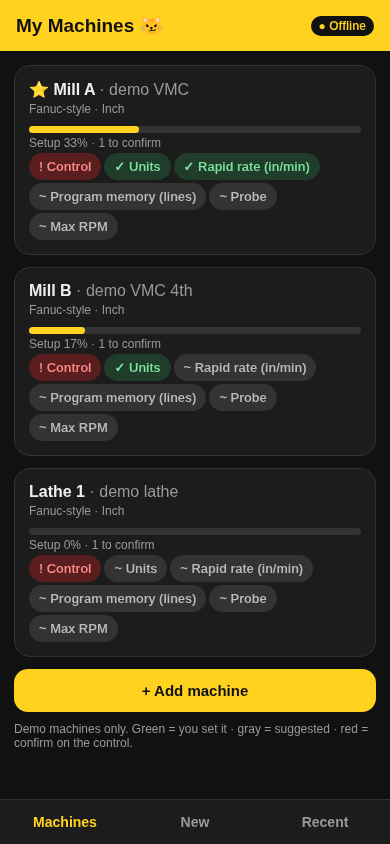
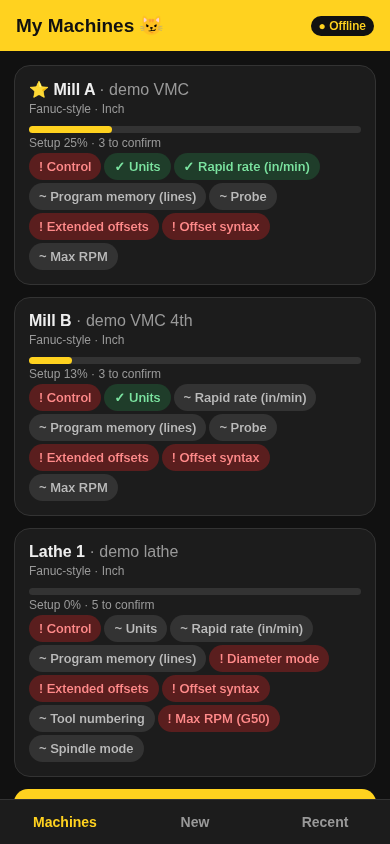
Lathe jobs, tool in sim + scrub/line highlight, required positional values, extended work offsets, edits feed checker/3D

Changed region(s): [[0.0308, 0.2464, 0.9846, 0.955], [0.2769, 0.1232, 0.3385, 0.1848], [0.2462, 0.154, 0.2769, 0.1848]]

diff --git a/index.html b/index.html
@@ -15,7 +15,7 @@ textarea,input,select{width:100%;background:#0a0a0a;color:#eee;border:1px solid 
 .ok{background:#1f3d2a;color:#7be3a0;border-radius:12px;padding:10px;font-size:13px;font-weight:700;margin:10px 0;cursor:pointer}
 .ok.bad{background:#5a1e1e;color:#ff8a8a}
 .code{background:#0a0a0a;border:1px solid #333;border-radius:12px;font:11.5px/1.55 ui-monospace,Menlo,monospace;max-height:340px;overflow:auto}
-.ln{white-space:pre;padding:0 8px;border-left:3px solid #ffd21f;outline:none}.ln.u{border-left-color:#ff5fa2;background:#2a1020}
+.ln{white-space:pre;padding:0 8px;border-left:3px solid #ffd21f;outline:none}.ln.cur{background:#3a3200!important}.ln.u{border-left-color:#ff5fa2;background:#2a1020}
 .tabs{position:fixed;bottom:0;left:0;right:0;display:flex;background:#1c1c1c;border-top:1px solid #333}
 .tabs button{flex:1;background:none;border:0;color:#999;padding:14px;font-size:14px;font-weight:700}.tabs button.on{color:#ffd21f}
 .foot{font-size:12px;color:#ff8a8a;margin-top:8px}canvas{width:100%;height:300px;background:#0a0a0a;border-radius:12px;touch-action:none;display:block}
@@ -28,9 +28,12 @@ textarea,input,select{width:100%;background:#0a0a0a;color:#eee;border:1px solid 
 <script>
 const $=s=>document.querySelector(s),V=$('#v');
 const PRESETS={'Vertical mills':['Generic 3-axis VMC','Generic VMC w/ 4th axis','Small toolroom mill'],'Horizontal mills':['Generic HMC w/ pallet','Generic HMC 4-axis'],'Lathes':['Generic 2-axis lathe','Lathe w/ live tooling','Lathe w/ sub-spindle']};
-const SETS=[['Control','Fanuc-style'],['Units','Inch'],['Rapid rate (in/min)','400'],['Program memory (lines)','8000'],['Probe','none'],['Max RPM','8000']];
-function mk(name,type,user){return{id:Date.now()+Math.random(),name,type,s:SETS.map(([k,v],i)=>({k,v,st:i==0?'confirm':(user||[]).includes(k)?'user':'suggested'}))}}
+const SETS=[['Control','Fanuc-style'],['Units','Inch'],['Rapid rate (in/min)','400'],['Program memory (lines)','8000'],['Probe','none'],['Extended offsets','none',1],['Offset syntax','G54.1 Pn',1],['Max RPM','8000']];
+const LSETS=[['Control','Fanuc-style'],['Units','Inch'],['Rapid rate (in/min)','400'],['Program memory (lines)','8000'],['Diameter mode','Diameter',1],['Extended offsets','none',1],['Offset syntax','G54.1 Pn',1],['Tool numbering','T0101'],['Max RPM (G50)','3000',1],['Spindle mode','G96 CSS']];
+const isLT=t=>/lathe/i.test(t);
+function mk(name,type,user){return{id:Date.now()+Math.random(),name,type,s:(isLT(type)?LSETS:SETS).map(([k,v],i)=>({k,v,st:i==0||(isLT(type)?LSETS:SETS)[i][2]?'confirm':(user||[]).includes(k)?'user':'suggested'}))}}
 let S=JSON.parse(localStorage.getItem('mc')||'null')||{m:[mk('Mill A','demo VMC',['Units','Rapid rate (in/min)']),mk('Mill B','demo VMC 4th',['Units']),mk('Lathe 1','demo lathe',[])],jobs:[],cur:0};
+S.m.forEach(m=>{if((isLT(m.type)&&!m.s.find(x=>x.k=='Diameter mode'))||!m.s.find(x=>x.k=='Extended offsets'))m.s=mk(m.name,m.type).s});
 const save=()=>localStorage.setItem('mc',JSON.stringify(S));
 function tab(t){document.querySelectorAll('.tabs button').forEach(b=>b.classList.toggle('on',b.dataset.t==t));({machines,new:nw,recent})[t]();scrollTo(0,0)}
 document.querySelectorAll('.tabs button').forEach(b=>b.onclick=()=>tab(b.dataset.t));
@@ -42,7 +45,7 @@ V.innerHTML=S.m.map((m,i)=>`<div class="card" onclick="edit(${i})"><div class="t
 function addM(){$('#ttl').textContent='Presets';V.innerHTML=Object.entries(PRESETS).map(([g,l])=>`<div class="card"><div class="t">${g}</div>${l.map(n=>`<button class="chip gr" onclick="pick('${n}','${g}')">${n}</button>`).join('')}</div>`).join('')+'<div class="s">Not affiliated with any machine maker. Generic presets only.</div>'}
 function pick(n,g){S.m.push(mk(n,g.replace(/s$/,'').toLowerCase()));save();edit(S.m.length-1)}
 function edit(i){const m=S.m[i];$('#ttl').textContent=m.name;
-V.innerHTML=`<div class="card"><input id="mn" value="${m.name}"><div class="bar"><i style="width:${pct(m)}%"></i></div><div class="s">Setup ${pct(m)}%</div>${m.s.map((x,j)=>`<div class="set"><span><span class="chip ${cls[x.st]}">${ic[x.st]}</span> ${x.k}</span><input style="width:45%" data-j="${j}" value="${x.v}"></div>`).join('')}<div class="s">Editing a value marks it green (you set it). Control stays red until you confirm it on the machine.</div></div><button class="btn" onclick="cur(${i})">Use this machine</button><button class="btn o" onclick="tab('machines')">Back</button>`;
+V.innerHTML=`<div class="card"><input id="mn" value="${m.name}"><div class="bar"><i style="width:${pct(m)}%"></i></div><div class="s">Setup ${pct(m)}%</div>${m.s.map((x,j)=>`<div class="set"><span><span class="chip ${cls[x.st]}" onclick="S.m[${i}].s[${j}].st='user';save();edit(${i})">${ic[x.st]}</span> ${x.k}</span><input style="width:45%" data-j="${j}" value="${x.v}"></div>`).join('')}<div class="s">Editing a value marks it green (you set it). Red items: check them on the control, then tap the red chip to confirm.</div></div><button class="btn" onclick="cur(${i})">Use this machine</button><button class="btn o" onclick="tab('machines')">Back</button>`;
 $('#mn').onchange=e=>{m.name=e.target.value;save()};V.querySelectorAll('input[data-j]').forEach(el=>el.onchange=()=>{const x=m.s[el.dataset.j];x.v=el.value;x.st='user';save();edit(i)})}
 function cur(i){S.cur=i;save();tab('new')}
 // ---------- parser
@@ -61,39 +64,25 @@ function parse(t){t=t.toLowerCase().replace(/\b(one|two|three|four|five|six|seve
   const c=num(/([\d.]+)\s*(?:"|in)?\s*(?:cutter|face mill|mill)/,t);G('Cutter',c??2,c==null);const st=num(/stepover\s*([\d.]+)/,t);G('Stepover %',st??70,st==null);}
  if(op=='face'){const z=num(/(?:take|remove|depth)\s*(?:off\s*)?([\d.]+)/,t);G('Depth',z??0.02,z==null)}else G('Depth',d);
  if(op!='face'){const pk=/peck|g83/.test(t);G('Cycle',pk?'Peck G83':'Drill G81',!/peck|drill|g8[13]/.test(t));if(pk){const q=num(/peck\s*(?:of\s*)?([\d.]+)/,t);G('Peck Q',q??0.05,q==null)}}
- const f=num(/(?:feed|f)\s*([\d.]+)/,t);G('Feed',f??(op=='face'?30:8),f==null);const r=num(/(?:rpm|s)\s*(\d{3,5})/,t)??num(/(\d{3,5})\s*rpm/,t);G('RPM',r??(op=='face'?3000:2500),r==null);
+ if(op!='face'){const dd=num(/([\d.]+)\s*(?:"|in)?\s*drill/,t);G('Drill Ø',dd??0.25,dd==null)}
+ const f=num(/\b(?:feed|f)\s*([\d.]+)/,t);G('Feed',f??(op=='face'?30:8),f==null);const r=num(/(?:rpm|s)\s*(\d{3,5})/,t)??num(/(\d{3,5})\s*rpm/,t);G('RPM',r??(op=='face'?3000:2500),r==null);
  const tl=num(/\bt(?:ool)?\s*(\d+)/,t);G('Tool',tl??1,tl==null);G('Clear Z',0.1,true);
  return{op,p,text:t}}
-const OPN={bolt:'Bolt circle',grid:'Hole grid',face:'Face mill'};
+const OPN={bolt:'Bolt circle',grid:'Hole grid',face:'Face mill',lturn:'OD turn',lface:'Lathe face',lgroove:'OD groove',ldrill:'Center drill'};
 function nw(){$('#ttl').textContent='New job · '+(S.m[S.cur]||{name:'?'}).name;
-V.innerHTML=`<textarea id="q" rows="3" placeholder="e.g. 6 hole bolt circle 3.0 dia, start 15, 0.5 deep, peck">${J?J.text:''}</textarea><div class="row" style="margin-top:6px"><button class="chip gr" onclick="ex('6 hole bolt circle 3.0 dia start 15 0.5 deep peck 0.1')">Bolt circle</button><button class="chip gr" onclick="ex('3 x 4 grid 0.75 spacing 0.4 deep drill')">Grid</button><button class="chip gr" onclick="ex('face 4 x 3 with 2 cutter take off 0.02')">Face</button></div><button class="btn" onclick="go()">Make my macro</button><div id="out"></div>`}
+V.innerHTML=`<textarea id="q" rows="3" placeholder="${isL()?'e.g. G54 T1 turn 2.0 bar to 1.5 dia 3 long z0 0':'e.g. G54 T2 6 hole bolt circle 3.0 dia center x0 y0 z0 0 start 15 0.5 deep peck'}">${J?J.text:''}</textarea><div class="row" style="margin-top:6px">${isL()?`<button class="chip gr" onclick="ex('G54 T1 turn 2.0 bar to 1.5 dia 3 long z0 0 chamfer 0.03')">OD turn</button><button class="chip gr" onclick="ex('G54 T1 face 0.05 off 2.0 bar z0 0')">Face</button><button class="chip gr" onclick="ex('G54 T3 groove 0.25 wide 0.1 deep at z-1.0 2.0 bar insert 0.125 z0 0')">Groove</button><button class="chip gr" onclick="ex('G54 T5 center drill 0.5 deep peck 0.1 z0 0')">Drill</button>`:`<button class="chip gr" onclick="ex('G54 T2 6 hole bolt circle 3.0 dia center x0 y0 z0 0 start 15 0.5 deep peck 0.1')">Bolt circle</button><button class="chip gr" onclick="ex('G54 T2 3 x 4 grid 0.75 spacing start x0 y0 z0 0 0.4 deep drill')">Grid</button><button class="chip gr" onclick="ex('G54 T1 face 4 x 3 with 2 cutter take off 0.06 stepdown 0.02 stepover 70 z0 0')">Face</button>`}</div><button class="btn" onclick="go()">Make my macro</button><div id="out"></div>`}
 function ex(s){$('#q').value=s;go()}
-function go(){const j=parse($('#q').value);if(!j){$('#out').innerHTML='<div class="ok bad">Try “bolt circle”, “grid”, or “face mill”.</div>';return}J={...j,date:Date.now(),edits:{}};show()}
-function show(){const miss=Object.entries(J.p).filter(([k,x])=>x.v==null);
- let h=`<div class="card"><div class="t">${OPN[J.op]}</div>${Object.entries(J.p).map(([k,x])=>`<button class="chip ${x.v==null?'r':x.g?'gr':'y'}" onclick="ed('${k}')">${k}: ${x.v??'?'}</button>`).join('')}<div class="s">Yellow = from your words · gray = suggested, tap to change.</div></div>`;
- if(miss.length){h+=`<div class="card"><div class="t">Need ${miss.length} more</div>${miss.map(([k])=>`<div class="set">${k}<input style="width:45%" inputmode="decimal" data-k="${k}"></div>`).join('')}<button class="btn" onclick="fill()">Continue</button></div>`;$('#out').innerHTML=h;return}
- const g=gen(J);J.code=g.code;J.moves=g.moves;
- const ch=checks(J,g);J.edited=J.edited||{};
- h+=`<div class="ok ${ch.every(c=>c[1])?'':'bad'}" onclick="$('#cl').classList.toggle('hid')">✓ ${ch.filter(c=>c[1]).length} of ${ch.length} checks passed ▾</div><div id="cl" class="hid card">${ch.map(c=>`<div class="s">${c[1]?'✅':'❌'} ${c[0]}</div>`).join('')}</div>
- <div class="code" id="ed">${J.code.map((l,i)=>`<div class="ln ${J.edits[i]!=null?'u':''}" contenteditable data-i="${i}">${esc(J.edits[i]??l)}</div>`).join('')}</div>
- <canvas id="cv"></canvas><div class="row" style="margin-top:6px"><button class="chip gr" onclick="vw('top')">Top</button><button class="chip gr" onclick="vw('front')">Front</button><button class="chip gr" onclick="vw('iso')">Iso</button><button class="chip gr" onclick="vw('fit')">Fit</button><button class="chip y" onclick="play()">▶ Play</button><button class="chip gr" onclick="step()">Step</button></div>
- <div class="card" style="margin-top:8px" id="info"></div>
- <label><input type="checkbox" id="vf" style="width:auto"> I'll verify on the control</label><button class="btn" id="cp" disabled onclick="copy()">Copy program</button><button class="btn o" onclick="saveJob()">Save to Recent</button>
- <div class="foot">⚠ Dry-run and single-block on the machine before production. Generic Fanuc-style Macro B. Not for any specific machine.</div>`;
- $('#out').innerHTML=h;$('#vf').onchange=e=>$('#cp').disabled=!e.target.checked;
- V.querySelectorAll('.ln').forEach(el=>el.oninput=()=>{J.edits[el.dataset.i]=el.textContent;el.classList.add('u')});
- view.n=J.moves.length;initCv();const m=S.m[S.cur],rr=m?+m.s[2].v:400;
- $('#info').innerHTML=`<div class="t">Cycle time about ${fmt(time(J.moves,rr))}</div><div class="s">${J.moves.length} moves · rapid ${rr} in/min <span class="chip ${m&&m.s[2].st=='user'?'g':'gr'}">${m&&m.s[2].st=='user'?'set':'suggested'}</span></div><div class="s">Estimate only. Don't quote a job off it.</div>`+(g.out?`<div class="s" style="color:#ff8a8a">⚠ ${g.out} move(s) outside stock (red)</div>`:'')}
+function go(){const j=req((isL()?parseL:parse)($('#q').value));if(!j){$('#out').innerHTML=`<div class="ok bad">${isL()?'Try “turn”, “face”, “groove”, or “center drill”.':'Try “bolt circle”, “grid”, or “face mill”.'}</div>`;return}J={...j,date:Date.now(),edits:{}};show()}
 function esc(s){return s.replace(/&/g,'&amp;').replace(/</g,'&lt;')}
-function ed(k){const x=J.p[k],v=prompt(k,x.v??'');if(v==null)return;x.v=isNaN(+v)?v:+v;x.g=false;show()}
-function fill(){V.querySelectorAll('input[data-k]').forEach(el=>{if(el.value!=='')J.p[el.dataset.k]={v:+el.value,g:false}});show()}
+function ed(k){const x=J.p[k],v=prompt(k=='Work offset'?'Work offset — this machine allows: G54–G59'+(extN()?`, ${offLbl('P1')}…${offLbl(offOpts().at(-1))}`:''):k,k=='Work offset'?offLbl(x.v||''):x.v??'');if(v==null)return;x.v=k=='Work offset'?normOff(v):isNaN(+v)?v:+v;x.g=false;show()}
+function fill(){V.querySelectorAll('[data-k]').forEach(el=>{if(el.value!=='')J.p[el.dataset.k]={v:el.dataset.k=='Work offset'?normOff(el.value):isNaN(+el.value)?el.value.toUpperCase():+el.value,g:false}});show()}
 // ---------- generator: Macro B main + subprogram, and simulated moves
 function f4(n){return(+n).toFixed(4).replace(/0+$/,'').replace(/\.$/,'.0')}
-function gen(j){const p=k=>j.p[k].v,c=[],mv=[];let pos=[0,0,2],out=0;
+function gen(j){const p=k=>j.p[k]?j.p[k].v:0,c=[],mv=[];let pos=[0,0,2],out=0;
  const L=s=>c.push(s);const R=(x,y,z)=>{mv.push({a:[...pos],b:[x??pos[0],y??pos[1],z??pos[2]],r:1});pos=mv.at(-1).b},F=(x,y,z,f)=>{mv.push({a:[...pos],b:[x??pos[0],y??pos[1],z??pos[2]],f});pos=mv.at(-1).b};
  const T=p('Tool'),cz=p('Clear Z');
  L('%');L('O1000 ('+OPN[j.op].toUpperCase()+' - MACRO CATCULATOR DEMO)');L('(GENERIC FANUC-STYLE MACRO B - VERIFY ON CONTROL)');
- L('G17 G20 G40 G49 G80 G90 (SAFE START)');L(`T${T} M06`);L(`G54 G00 X0. Y0. S${p('RPM')} M03`);L(`G43 H${T} Z${f4(cz+1)} M08`);
+ L('G17 G20 G40 G49 G80 G90 (SAFE START)');L(`T${T} M06`);L(`${offCode(p('Work offset'))} G00 X0. Y0. S${p('RPM')} M03`);{const sx=j.p['Center X']||j.p['Start X'],sy=j.p['Center Y']||j.p['Start Y'];L(`G52 X${f4(sx?sx.v:0)} Y${f4(sy?sy.v:0)} Z${f4(p('Z0'))} (LOCAL SHIFT TO PART ZERO)`)}L(`G43 H${T} Z${f4(cz+1)} M08`);
  const drill=(x,y)=>{const d=-p('Depth'),q=p('Peck Q');R(x,y,null);R(null,null,cz);if(j.p['Peck Q']){let z=0;while(z>d){const nz=Math.max(d,z-q);F(null,null,nz,p('Feed'));R(null,null,cz);if(nz>d)R(null,null,nz+0.01);z=nz}}else{F(null,null,d,p('Feed'));R(null,null,cz)}};
  const cyc=j.p['Peck Q']?`G83 Z-#26 R#18 Q#17 F#9`:`G81 Z-#26 R#18 F#9`;
  R(0,0,cz+1);
@@ -101,39 +90,157 @@ function gen(j){const p=k=>j.p[k].v,c=[],mv=[];let pos=[0,0,2],out=0;
   for(let i=0;i<p('Holes');i++){const a=(p('Start°')+360*i/p('Holes'))*Math.PI/180;drill(p('Dia')/2*Math.cos(a),p('Dia')/2*Math.sin(a))}}
  if(j.op=='grid'){L(`G65 P9101 I${p('Rows')} J${p('Cols')} U${f4(p('Pitch X'))} V${f4(p('Pitch Y'))} Z${f4(p('Depth'))} R${f4(cz)} F${f4(p('Feed'))}${j.p['Peck Q']?' Q'+f4(p('Peck Q')):''}`);
   for(let r=0;r<p('Rows');r++)for(let k=0;k<p('Cols');k++)drill(k*p('Pitch X'),r*p('Pitch Y'))}
- if(j.op=='face'){const Ln=p('Length'),Wd=p('Width'),d=p('Cutter'),so=d*p('Stepover %')/100;L(`G65 P9102 X${f4(Ln)} Y${f4(Wd)} D${f4(d)} K${f4(so)} Z${f4(p('Depth'))} F${f4(p('Feed'))}`);
-  let y=0,dir=1;R(-d/2-0.1,0,null);R(null,null,cz);F(null,null,-p('Depth'),p('Feed'));while(y<=Wd+1e-6){F(dir>0?Ln+d/2+0.1:-d/2-0.1,y,null,p('Feed'));y+=so;if(y<=Wd+1e-6)F(null,y,null,p('Feed'));dir=-dir}R(null,null,cz+1)}
- R(null,null,cz+1);L('G80 M09');L('G91 G28 Z0. (SAFE END)');L('G90 M05');L('M30');L('');
+ if(j.op=='face'){const Ln=p('Length'),Wd=p('Width'),d=p('Cutter'),so=d*p('Stepover %')/100;L(`G65 P9102 X${f4(Ln)} Y${f4(Wd)} D${f4(d)} K${f4(so)} E${f4(p('Stepdown'))} Z${f4(p('Depth'))} F${f4(p('Feed'))}`);
+  let zz=0;while(zz<p('Depth')-1e-6){zz=Math.min(p('Depth'),zz+p('Stepdown'));let y=0,dir=1;R(-d/2-0.1,0,null);R(null,null,cz);F(null,null,-zz,p('Feed'));while(y<=Wd+1e-6){F(dir>0?Ln+d/2+0.1:-d/2-0.1,y,null,p('Feed'));y+=so;if(y<=Wd+1e-6)F(null,y,null,p('Feed'));dir=-dir}R(null,null,cz)}R(null,null,cz+1)}
+ R(null,null,cz+1);L('G80 M09');L('G52 X0 Y0 Z0 (CANCEL SHIFT)');L('G91 G28 Z0. (SAFE END)');L('G90 M05');L('M30');L('');
  // subprogram
  const chk=(v,n)=>L(`IF[#${v}EQ#0]GOTO${n}`);
  if(j.op=='bolt'){L('O9100 (BOLT CIRCLE)');[11,7,1,26,18,9].forEach(v=>chk(v,99));L('#100=0 (COUNT)');L('WHILE[#100LT#11]DO1');L('#101=#1+360*#100/#11');L('#102=#7/2*COS[#101]');L('#103=#7/2*SIN[#101]');L(`G90 G99 X#102 Y#103 ${cyc}`);L('#100=#100+1');L('END1');}
  if(j.op=='grid'){L('O9101 (HOLE GRID)');[4,5,21,22,26,18,9].forEach(v=>chk(v,99));L('#100=0');L('WHILE[#100LT#4]DO1');L('#101=0');L('WHILE[#101LT#5]DO2');L(`G90 G99 X[#101*#21] Y[#100*#22] ${cyc}`);L('#101=#101+1');L('END2');L('#100=#100+1');L('END1');}
- if(j.op=='face'){L('O9102 (FACE MILL)');[24,25,7,6,26,9].forEach(v=>chk(v,99));L('#100=0 (Y)');L('#101=1 (DIR)');L('G00 X[-#7/2-0.1] Y0');L('G01 Z-#26 F#9');L('WHILE[#100LE#25]DO1');L('IF[#101GT0]THEN #102=#24+#7/2+0.1');L('IF[#101LT0]THEN #102=-#7/2-0.1');L('G01 X#102 Y#100');L('#100=#100+#6');L('IF[#100LE#25]THEN G01 Y#100');L('#101=-#101');L('END1');L('G00 Z1.');}
+ if(j.op=='face'){L('O9102 (FACE MILL)');[24,25,7,6,8,26,9].forEach(v=>chk(v,99));L('#110=0 (Z DONE)');L('WHILE[#110LT#26]DO2');L('#110=#110+#8');L('IF[#110GT#26]THEN #110=#26');L('#100=0 (Y)');L('#101=1 (DIR)');L('G00 X[-#7/2-0.1] Y0');L('G01 Z-#110 F#9');L('WHILE[#100LE#25]DO1');L('IF[#101GT0]THEN #102=#24+#7/2+0.1');L('IF[#101LT0]THEN #102=-#7/2-0.1');L('G01 X#102 Y#100');L('#100=#100+#6');L('IF[#100LE#25]THEN G01 Y#100');L('#101=-#101');L('END1');L('G00 Z0.1');L('END2');L('G00 Z1.');}
  L('G80');L('M99');L('N99 #3000=1 (MISSING ARGUMENT)');L('M99');L('%');
  // stock bounds
  let st;if(j.op=='bolt'){const r=p('Dia')/2+0.75;st=[-r,-r,-p('Depth')-0.25,r,r,0]}else if(j.op=='grid')st=[-0.5,-0.5,-p('Depth')-0.25,(p('Cols')-1)*p('Pitch X')+0.5,(p('Rows')-1)*p('Pitch Y')+0.5,0];else st=[0,0,-0.5,p('Length'),p('Width'),0];
  mv.forEach(m=>{if(!m.r&&(m.b[2]<st[2]))m.out=1,out++});j.stock=st;return{code:c,moves:mv,out}}
-function checks(j,g){const t=g.code.join('\n');return[['Safe start line (G17 G20 G40 G49 G80 G90)',/G17 G20 G40 G49 G80 G90/.test(t)],['Tool length comp G43 with matching H',/G43 H\d/.test(t)],['Spindle on before cutting',/M03/.test(t)],['Missing-argument alarm #3000',/#3000/.test(t)],['WHILE / END pairs match',(t.match(/DO\d/g)||[]).length==(t.match(/END\d/g)||[]).length],['Canned cycle cancelled G80',/G80/.test(t)],['Feed is positive',j.p.Feed.v>0],['Depth is positive (Z- used)',j.p.Depth.v>0],['No cut moves below stock',!g.out],['Program ends M30 and sub ends M99',/M30/.test(t)&&/M99/.test(t)],['Line count under machine memory',g.code.length<(+((S.m[S.cur]||{s:[0,0,0,{v:8000}]}).s[3].v)||8000)]]}
-function time(m,rr){let s=0;m.forEach(x=>{const d=Math.hypot(x.b[0]-x.a[0],x.b[1]-x.a[1],x.b[2]-x.a[2]);s+=d/(x.r?rr:x.f)*60});return s}
 const fmt=s=>Math.floor(s/60)+':'+String(Math.round(s%60)).padStart(2,'0');
-function copy(){const t=J.code.map((l,i)=>J.edits[i]??l).join('\n');navigator.clipboard?.writeText(t);$('#cp').textContent='Copied ✓'}
 function saveJob(){S.jobs.unshift({...J,date:Date.now(),machine:(S.m[S.cur]||{}).name});save();tab('recent')}
 function recent(){$('#ttl').textContent='Recent';V.innerHTML=S.jobs.length?S.jobs.map((j,i)=>`<div class="card" onclick="reopen(${i})"><div class="t">${OPN[j.op]} · ${j.machine||''}</div><div class="s">${new Date(j.date).toLocaleString()}</div><div class="s">${esc(j.text)}</div></div>`).join(''):'<div class="card s">No saved jobs yet.</div>'}
-function reopen(i){J=JSON.parse(JSON.stringify(S.jobs[i]));tab('new');show()}
-// ---------- 3D wireframe
-const view={rx:-0.9,rz:-0.6,s:1,n:0};let cv,ctx;
-function initCv(){cv=$('#cv');const d=devicePixelRatio||1;cv.width=cv.clientWidth*d;cv.height=300*d;ctx=cv.getContext('2d');ctx.scale(d,d);vw('fit');
- let dr=null;cv.onpointerdown=e=>dr=[e.clientX,e.clientY];onpointerup=()=>dr=null;cv.onpointermove=e=>{if(!dr)return;view.rz+=(e.clientX-dr[0])/100;view.rx+=(e.clientY-dr[1])/100;dr=[e.clientX,e.clientY];draw()}}
-function vw(k){if(k=='top')view.rx=0,view.rz=0;if(k=='front')view.rx=-Math.PI/2,view.rz=0;if(k=='iso')view.rx=-0.9,view.rz=-0.6;if(k=='fit')view.n=J.moves.length;const st=J.stock;view.c=[(st[0]+st[3])/2,(st[1]+st[4])/2,(st[2]+st[5])/2];view.s=Math.min(cv.clientWidth,300)*0.75/Math.max(st[3]-st[0],st[4]-st[1],2.5);draw()}
-function P(p){let x=p[0]-view.c[0],y=p[1]-view.c[1],z=p[2]-view.c[2];const cz=Math.cos(view.rz),sz=Math.sin(view.rz);[x,y]=[x*cz-y*sz,x*sz+y*cz];const cx=Math.cos(view.rx),sx=Math.sin(view.rx);[y,z]=[y*cx-z*sx,y*sx+z*cx];return[cv.clientWidth/2+x*view.s,150-y*view.s]}
+function reopen(i){J=JSON.parse(JSON.stringify(S.jobs[i]));const k=S.m.findIndex(m=>m.name==J.machine);if(k>=0)S.cur=k;tab('new');show()}
+// ---------- work offsets (canonical: 'G54'..'G59' or 'P1'..'P300')
+function normOff(t){t=String(t).toLowerCase();let m=t.match(/g54\.1\s*p\s*(\d+)|g54\s*p\s*(\d+)/);if(m)return'P'+(m[1]||m[2]);m=t.match(/g1(1\d|2\d)\b/);if(m)return'P'+(+m[1]-9);m=t.match(/\bp\s*(\d+)\b/);if(m&&!/peck/.test(t))return'P'+m[1];m=t.match(/g5[4-9]\b/);return m?m[0].toUpperCase():null}
+const extN=()=>{const v=(sv('Extended offsets')||{v:'none'}).v;return /300/.test(v)?300:/48/.test(v)?48:/20/.test(v)?20:0};
+function offOK(o){if(!o)return false;if(/^G5/.test(o))return true;const n=+o.slice(1),sy=(sv('Offset syntax')||{v:''}).v;return n>=1&&n<=extN()&&(!/G110/.test(sy)||n<=20)}
+function offCode(o){if(!o||/^G5/.test(o))return o||'G54';const n=+o.slice(1),sy=(sv('Offset syntax')||{v:'G54.1 Pn'}).v;return /G110/.test(sy)?'G'+(109+n):/^G54 P/.test(sy)?'G54 P'+n:'G54.1 P'+n}
+function offOpts(){const sy=(sv('Offset syntax')||{v:'G54.1 Pn'}).v,o=['G54','G55','G56','G57','G58','G59'],n=/G110/.test(sy)?Math.min(20,extN()):extN();for(let i=1;i<=n;i++)o.push('P'+i);return o}
+const offLbl=o=>/^G5/.test(o)?o:offCode(o);
+// ---------- "be specific": positional values are required
+const UNIT={'Holes':'count','Dia':'in','Center X':'in','Center Y':'in','Start X':'in','Start Y':'in','Z0':'in, top of part / face','Depth':'in','Start°':'deg','Rows':'count','Cols':'count','Pitch X':'in','Pitch Y':'in','Length':'in','Width':'in','Stepdown':'in per pass','Stepover %':'% of cutter','Cutter':'in dia','Bar Ø':'in dia','Finish Ø':'in dia','Face off':'in','At Z':'in from face','Insert W':'in','Work offset':'G54–G59','Tool':'number'};
+const REQ={bolt:['Holes','Dia','Center X','Center Y','Z0','Depth','Start°'],grid:['Start X','Start Y','Rows','Cols','Pitch X','Pitch Y','Z0','Depth'],face:['Length','Width','Z0','Depth','Stepdown','Stepover %','Cutter'],
+ lturn:['Bar Ø','Finish Ø','Z0','Length'],lface:['Bar Ø','Z0','Face off'],lgroove:['Bar Ø','Z0','At Z','Width','Depth','Insert W'],ldrill:['Z0','Depth']};
+function req(j){if(!j)return j;const t=j.text,p=j.p,set=(k,v)=>p[k]={v,g:false};
+ const xy=t.match(/(?:center|start|at)\s*x\s*(-?[\d.]+)\s*,?\s*y\s*(-?[\d.]+)/);
+ if(j.op=='bolt'){p['Center X']={v:xy?+xy[1]:null};p['Center Y']={v:xy?+xy[2]:null}}
+ if(j.op=='grid'){p['Start X']={v:xy?+xy[1]:null};p['Start Y']={v:xy?+xy[2]:null}}
+ const z0=num(/z0\s*(?:=|at)?\s*(-?[\d.]+)/,t);p.Z0={v:z0};
+ if(j.op=='face'){const sd=num(/step ?down\s*([\d.]+)/,t);p.Stepdown={v:sd}}
+ if(j.op=='lturn'&&!/chamfer/.test(t))delete p.Chamfer;
+ p['Work offset']={v:normOff(t)};
+ const tl=t.match(/\bt(?:ool)?\s*(\d+)/);p.Tool={v:tl?+tl[1]:null};
+ REQ[j.op].forEach(k=>{if(!p[k]||p[k].g)p[k]={v:null}});return j}
+// ---------- lathe
+const isL=()=>isLT((S.m[S.cur]||{}).type||'');
+const sv=k=>{const m=S.m[S.cur];return m&&m.s.find(x=>x.k==k)};
+function parseL(t){t=t.toLowerCase();const p={},G=(k,v,g)=>p[k]={v,g:!!g};let op;
+ if(/groove/.test(t))op='lgroove';else if(/drill|center/.test(t))op='ldrill';else if(/face|facing/.test(t))op='lface';else if(/turn|\bod\b|to [\d.]+\s*(dia|ø)/.test(t))op='lturn';else return null;
+ const bar=num(/([\d.]+)\s*(?:"|in)?\s*(?:dia\s*)?(?:bar|stock)/,t);
+ if(op!='ldrill')G('Bar Ø',bar??2,bar==null);
+ if(op=='lturn'){G('Finish Ø',num(/to\s*([\d.]+)/,t));G('Length',num(/([\d.]+)\s*(?:"|in)?\s*long/,t)??num(/length\s*([\d.]+)/,t));const d=num(/doc\s*([\d.]+)/,t);G('DOC',d??0.05,d==null);const c=num(/chamfer\s*([\d.]+)/,t);G('Chamfer',c??0,c==null)}
+ if(op=='lface'){G('Face off',num(/([\d.]+)\s*(?:"|in)?\s*off/,t));const d=num(/doc\s*([\d.]+)/,t);G('DOC',d??0.02,d==null)}
+ if(op=='lgroove'){G('Width',num(/([\d.]+)\s*(?:"|in)?\s*wide/,t));G('Depth',num(/([\d.]+)\s*(?:"|in)?\s*deep/,t));const z=num(/at\s*z\s*(-?[\d.]+)/,t);G('At Z',z==null?null:Math.abs(z));const w=num(/insert\s*([\d.]+)/,t);G('Insert W',w??0.125,w==null)}
+ if(op=='ldrill'){G('Depth',num(/([\d.]+)\s*(?:"|in)?\s*deep/,t));const q=num(/peck\s*(?:of\s*)?([\d.]+)/,t);G('Peck Q',q??0.1,q==null);const dd=num(/([\d.]+)\s*(?:"|in)?\s*drill/,t);G('Drill Ø',dd??0.25,dd==null)}
+ const f=num(/\b(?:feed|f)\s*([\d.]+)/,t);G('Feed/rev',f??({lturn:.008,lface:.006,lgroove:.003,ldrill:.004})[op],f==null);
+ if(op=='ldrill'){const r=num(/(\d{3,5})\s*rpm/,t);G('RPM',r??1200,r==null)}else{const v=num(/(?:sfm|g96 s)\s*(\d+)/,t);G('SFM',v??400,v==null)}
+ const tl=num(/\bt(?:ool)?\s*(\d+)/,t);G('Tool',tl??1,tl==null);return{op,p,text:t,lathe:1}}
+function genL(j){const p=k=>j.p[k]?j.p[k].v:0,c=[],mv=[],L=s=>c.push(s);let TG='G65',pos;
+ const st=j.p['Bar Ø']?p('Bar Ø'):1,Rr=st/2,T=p('Tool'),tt='T'+String(T).padStart(2,'0')+String(T).padStart(2,'0');
+ const mx=+(sv('Max RPM (G50)')||{v:3000}).v;pos=[Rr+0.5,0,1];
+ const R=(x,z)=>{mv.push({a:[...pos],b:[x==null?pos[0]:x/2,0,z??pos[2]],r:1,t:TG});pos=mv.at(-1).b},F=(x,z,f)=>{mv.push({a:[...pos],b:[x==null?pos[0]:x/2,0,z??pos[2]],f:f||p('Feed/rev'),t:TG});pos=mv.at(-1).b};
+ L('%');L('O2000 ('+OPN[j.op].toUpperCase()+' - MACRO CATCULATOR DEMO)');L('(GENERIC FANUC-STYLE LATHE MACRO B - X IN DIAMETER)');L('G18 G20 G40 G80 G99 (SAFE START)');L(`${tt} (TOOL ${T})`);L(`${offCode(p('Work offset'))} G52 Z${f4(p('Z0'))} (LOCAL Z SHIFT - CONFIRM G52 ON CONTROL)`);L(`G50 S${mx} (MAX RPM CLAMP)`);
+ L(j.op=='ldrill'?`G97 S${p('RPM')} M03`:`G96 S${p('SFM')} M03`);L(`G00 X${f4(st+0.1)} Z0.1 M08`);R(st+0.1,0.1);
+ let Lst=2,zmax=0,sub=[];
+ if(j.op=='lturn'){const fin=p('Finish Ø'),len=p('Length'),doc=p('DOC'),ch=p('Chamfer');Lst=len+0.5;
+  L(`G65 P9200 A${f4(st)} B${f4(fin)} C${f4(ch)} D${f4(doc)} Z${f4(len)} F${f4(p('Feed/rev'))}`);
+  TG='G01 Z-#26';let d=st;while(d>fin+0.02+1e-6){d=Math.max(d-2*doc,fin+0.02);R(d,null);F(null,-len);F(d+0.04,null);R(null,0.1)}
+  TG='(FINISH)';R(fin-2*ch,0.1);F(null,0,p('Feed/rev')/2);F(fin,-ch,p('Feed/rev')/2);F(null,-len,p('Feed/rev')/2);F(st+0.1,null);R(null,0.1);
+  sub=['O9200 (OD TURN ROUGH + FINISH)',...[1,2,3,7,26,9].map(v=>`IF[#${v}EQ#0]GOTO99`),'IF[#2GE#1]GOTO98','#100=#1 (CURRENT DIA)','WHILE[#100GT[#2+0.02]]DO1','#100=#100-2*#7','IF[#100LT[#2+0.02]]THEN #100=#2+0.02','G00 X#100','G01 Z-#26 F#9','G01 X[#100+0.04]','G00 Z0.1','END1','G00 X[#2-2*#3] Z0.1 (FINISH)','G01 Z0 F[#9/2]','G01 X#2 Z-#3','G01 Z-#26','G01 X[#1+0.1]','G00 Z0.1']}
+ if(j.op=='lface'){const k=p('Face off'),doc=p('DOC');zmax=k;L(`G65 P9201 A${f4(st)} K${f4(k)} D${f4(doc)} F${f4(p('Feed/rev'))}`);
+  TG='G01 X0';let z=k;while(z>1e-6){z=Math.max(0,z-doc);R(st+0.1,null);R(null,z);F(0,null);R(null,z+0.05);R(st+0.1,null)}
+  sub=['O9201 (FACE)',...[1,6,7,9].map(v=>`IF[#${v}EQ#0]GOTO99`),'#100=#6','WHILE[#100GT0]DO1','#100=#100-#7','IF[#100LT0]THEN #100=0','G00 X[#1+0.1]','G00 Z#100','G01 X0 F#9','G00 Z[#100+0.05]','END1']}
+ if(j.op=='lgroove'){const w=p('Width'),dp=p('Depth'),zs=-p('At Z'),iw=p('Insert W');Lst=Math.max(2,p('At Z')+w+0.5);
+  L(`G65 P9202 A${f4(st)} W${f4(w)} K${f4(dp)} Z${f4(p('At Z'))} I${f4(iw)} F${f4(p('Feed/rev'))}`);
+  TG='G01 X[#1-2*#6]';let zp=zs,end=zs-(w-iw);for(;;){R(st+0.1,null);R(null,zp);F(st-2*dp,null);R(st+0.1,null);if(zp<=end+1e-6)break;zp=Math.max(end,zp-iw*0.75)}
+  sub=['O9202 (OD GROOVE)',...[1,23,6,26,4,9].map(v=>`IF[#${v}EQ#0]GOTO99`),'IF[#4GT#23]GOTO98','#100=-#26','#101=-#26-[#23-#4]','WHILE[#100GE#101]DO1','G00 X[#1+0.1]','G00 Z#100','G01 X[#1-2*#6] F#9','G00 X[#1+0.1]','IF[#100EQ#101]GOTO10','#100=#100-#4*0.75','IF[#100LT#101]THEN #100=#101','END1','N10']}
+ if(j.op=='ldrill'){const d=p('Depth'),q=p('Peck Q');Lst=Math.max(2,d+0.5);L(`G65 P9203 Z${f4(d)} Q${f4(q)} F${f4(p('Feed/rev'))}`);
+  TG='G01 Z-#100';R(0,0.1);let z=0;while(z>-d){const nz=Math.max(-d,z-q);F(0,nz);R(0,0.1);if(nz>-d)R(0,nz+0.01);z=nz}
+  sub=['O9203 (PECK DRILL ON CENTER)',...[26,17,9].map(v=>`IF[#${v}EQ#0]GOTO99`),'G00 X0 Z0.1','#100=0','WHILE[#100LT#26]DO1','#100=#100+#17','IF[#100GT#26]THEN #100=#26','G01 Z-#100 F#9','G00 Z0.1','IF[#100LT#26]THEN G00 Z[-#100+0.01]','END1']}
+ TG='G28';R(st+1,1);L(`G00 X${f4(st+1)} Z1.0 M09`);L('G52 Z0 (CANCEL SHIFT)');L('G28 U0. W0. (SAFE END)');L('M05');L('M30');L('');
+ sub.forEach(L);L('M99');L('N98 #3000=2 (STOCK OR INSERT TOO SMALL)');L('N99 #3000=1 (MISSING ARGUMENT)');L('M99');L('%');
+ mv.forEach(m=>{const i=c.findIndex(l=>l.includes(m.t));m.l=i<0?7:i});
+ j.stock=[-Rr,-Rr,-Lst,Rr,Rr,zmax];j.lb={R:Rr,L:Lst,z:zmax};let out=0;mv.forEach(m=>{if(m.b[0]<-1e-6||(!m.r&&m.b[2]<-Lst))m.out=1,out++});return{code:c,moves:mv,out}}
+// ---------- show / edits feed back
+const txt=()=>J.code.map((l,i)=>J.edits[i]??l);
+function userMoves(){const out=[];let pos=J.moves.length?[...J.moves.at(-1).b]:[0,0,1];
+ Object.keys(J.edits).map(Number).sort((a,b)=>a-b).forEach(i=>{const l=J.edits[i].toUpperCase(),m=l.match(/^\s*(?:N\d+\s*)?G0?([01])\b/);if(!m||l.includes('#'))return;
+  const g=k=>{const r=l.match(new RegExp(k+'\\s*(-?[\\d.]+)'));return r?+r[1]:null};const b=[...pos];
+  if(J.lathe){if(g('X')!=null)b[0]=g('X')/2;if(g('Z')!=null)b[2]=g('Z')}else{['X','Y','Z'].forEach((k,n)=>{if(g(k)!=null)b[n]=g(k)})}
+  const mv={a:pos,b,r:m[1]=='0',f:g('F')||(J.p.Feed||J.p['Feed/rev']).v,l:i,u:1};const st=J.stock;
+  if(J.lathe?(b[0]<-1e-6||(!mv.r&&b[2]<st[2])):(!mv.r&&b[2]<st[2]))mv.out=1;out.push(mv);pos=b});return out}
+function show(){const miss=Object.entries(J.p).filter(([k,x])=>x.v==null);
+ let h=`<div class="card"><div class="t">${OPN[J.op]}</div>${Object.entries(J.p).map(([k,x])=>`<button class="chip ${x.v==null?'r':x.g?'gr':'y'}" onclick="ed('${k}')">${k}: ${k=='Work offset'&&x.v?offLbl(x.v):x.v??'?'}</button>`).join('')}<div class="s">Yellow = from your words · gray = suggested, tap to change.</div></div>`;
+ if(miss.length){h+=`<div class="card"><div class="t">Need ${miss.length} more — we have to be specific</div><div class="s">Anything that sets where the tool goes is never guessed.</div>${miss.map(([k])=>`<div class="set"><span>${k} <span class="s">(${UNIT[k]||''})</span></span>${k=='Work offset'?`<select style="width:40%" data-k="${k}"><option value="">pick…</option>${offOpts().map(o=>`<option value="${o}">${offLbl(o)}</option>`).join('')}</select>`:`<input style="width:40%" data-k="${k}">`}</div>`).join('')}<button class="btn" onclick="fill()">Continue</button></div>`;$('#out').innerHTML=h;return}
+ const g=J.lathe?genL(J):gen(J);shiftZero(J,g);J.code=g.code;J.moves=g.moves;
+ if(!J.lathe){const ci=J.code.findIndex(l=>/G99 X|G01 X#102/.test(l)),gi=J.code.findIndex(l=>/^G43/.test(l)),ei=J.code.findIndex(l=>/G28/.test(l));J.moves.forEach((m,i)=>m.l=i==0?gi:i==J.moves.length-1?ei:ci)}
+ h+=`<div class="ok" id="ck" onclick="$('#cl').classList.toggle('hid')"></div><div id="cl" class="hid card"></div>
+ <div class="code" id="ed">${J.code.map((l,i)=>`<div class="ln ${J.edits[i]!=null?'u':''}" contenteditable data-i="${i}">${esc(J.edits[i]??l)}</div>`).join('')}</div>
+ <canvas id="cv"></canvas><input type="range" id="sc" min="0" value="0" style="padding:0;margin-top:8px">
+ <div class="row" style="margin-top:6px">${J.lathe?'<button class="chip y" id="rv" onclick="rev()">Revolve 3D</button>':''}<button class="chip gr" onclick="vw('top')">Top</button><button class="chip gr" onclick="vw('front')">Front</button><button class="chip gr" onclick="vw('iso')">Iso</button><button class="chip gr" onclick="vw('fit')">Fit</button><button class="chip y" onclick="play()">▶ Play</button><button class="chip gr" onclick="step()">Step</button></div>
+ <div class="card" style="margin-top:8px" id="info"></div>
+ <label><input type="checkbox" id="vf" style="width:auto"> I'll verify on the control</label><button class="btn" id="cp" disabled onclick="copy()">Copy program</button><button class="btn o" onclick="saveJob()">Save to Recent</button>
+ <div class="foot">⚠ Dry-run and single-block on the machine before production. Generic Fanuc-style Macro B. Not for any specific machine.</div>`;
+ $('#out').innerHTML=h;$('#vf').onchange=e=>$('#cp').disabled=!e.target.checked;
+ V.querySelectorAll('.ln').forEach(el=>el.oninput=()=>{J.edits[el.dataset.i]=el.textContent;el.classList.add('u');refresh()});
+ $('#sc').oninput=e=>{clearInterval(pl);scrub(+e.target.value)};view.rev=0;refresh();initCv();scrub(J.M.length)}
+function refresh(){J.M=J.moves.concat(userMoves());const ch=checks(J),ok=ch.filter(c=>c[1]).length,m=S.m[S.cur],rr=+((sv('Rapid rate (in/min)')||{v:400}).v),rs=sv('Rapid rate (in/min)'),out=J.M.filter(x=>x.out).length;
+ $('#ck').className='ok '+(ok==ch.length?'':'bad');$('#ck').textContent=`${ok==ch.length?'✓':'⚠'} ${ok} of ${ch.length} checks passed ▾`;$('#cl').innerHTML=ch.map(c=>`<div class="s">${c[1]?'✅':'❌'} ${c[0]}</div>`).join('');
+ $('#sc').max=J.M.length;
+ $('#info').innerHTML=`<div class="t">Cycle time about ${fmt(time(J.M,rr))}</div><div class="s">${J.M.length} moves${J.M.length>J.moves.length?` (${J.M.length-J.moves.length} from your edits)`:''} · rapid ${rr} in/min <span class="chip ${rs&&rs.st=='user'?'g':'gr'}">${rs&&rs.st=='user'?'set':'suggested'}</span>${J.lathe?' · G96/G99 feed per rev math':''}</div><div class="s">Estimate only. Don't quote a job off it.</div>`+(out?`<div class="s" style="color:#ff8a8a">⚠ ${out} move(s) outside stock or below centerline (red)</div>`:'');if(cv)draw()}
+function checks(j){const t=txt().join('\n'),M=j.M,c=[['Every position value given by you (none guessed)',REQ[j.op].every(k=>j.p[k]&&j.p[k].v!=null&&!j.p[k].g)],['Work offset '+offLbl((j.p['Work offset']||{}).v||'?')+' exists on this machine'+(extN()?'':' (extended offsets: none)'),offOK((j.p['Work offset']||{}).v)],['Extended offset count confirmed on control',!/^P/.test((j.p['Work offset']||{}).v||'')||(sv('Extended offsets')||{}).st=='user'],['Tool number given',j.p.Tool&&j.p.Tool.v!=null],['WHILE / END pairs match',(t.match(/DO\d/g)||[]).length==(t.match(/END\d/g)||[]).length],['Balanced [ ] brackets',(t.match(/\[/g)||[]).length==(t.match(/\]/g)||[]).length],['Missing-argument alarm #3000',/#3000/.test(t)],['Program ends M30 and sub ends M99',/M30/.test(t)&&/M99/.test(t)],['No cut moves outside stock',!M.some(m=>m.out)],['Line count under machine memory',t.split('\n').length<+((sv('Program memory (lines)')||{v:8000}).v)]];
+ if(j.lathe){const p=k=>j.p[k]&&j.p[k].v,dm=sv('Diameter mode'),mx=sv('Max RPM (G50)');c.unshift(['Safe start (G18 G20 G40 G80 G99)',/G18 G20 G40 G80 G99/.test(t)],['Diameter mode confirmed on control',dm&&dm.st=='user'],['Max RPM (G50) confirmed and in program',mx&&mx.st=='user'&&/G50 S\d/.test(t)],['X never below centerline',!M.some(m=>m.b[0]<-1e-6)],['Feed per rev is positive',p('Feed/rev')>0],['Safe end G28 U0 W0',/G28 U0\.? W0/.test(t)]);
+  if(p('Finish Ø')!=null)c.push(['Finish Ø > 0',p('Finish Ø')>0],['Stock Ø > finish Ø',p('Bar Ø')>p('Finish Ø')]);if(p('Width')!=null)c.push(['Insert fits groove width',p('Insert W')<=p('Width')],['Groove depth < bar radius',p('Depth')<p('Bar Ø')/2])}
+ else c.unshift(['Safe start line (G17 G20 G40 G49 G80 G90)',/G17 G20 G40 G49 G80 G90/.test(t)],['Tool length comp G43 with H',/G43 H\d/.test(t)],['Spindle on before cutting',/M03/.test(t)],['Canned cycle cancelled G80',/G80/.test(t)],['Feed is positive',j.p.Feed.v>0],['Depth is positive (Z- used)',j.p.Depth.v>0]);return c}
+function time(m,rr){let s=0;const L=J.lathe,mx=+((sv('Max RPM (G50)')||{v:3000}).v),sfm=J.p.SFM?J.p.SFM.v:0,rpm=J.p.RPM?J.p.RPM.v:0;
+ m.forEach(x=>{const d=Math.hypot(x.b[0]-x.a[0],x.b[1]-x.a[1],x.b[2]-x.a[2]);if(x.r)s+=d/rr*60;else if(L){const r=Math.max(.025,(x.a[0]+x.b[0])/2),n=sfm?Math.min(mx,3.82*sfm/(2*r)):rpm;s+=d/(x.f*n)*60}else s+=d/x.f*60});return s}
+function copy(){navigator.clipboard?.writeText(txt().join('\n'));$('#cp').textContent='Copied ✓'}
+// ---------- view
+const view={rx:-0.9,rz:-0.6,s:1,n:0,rev:0};let cv,ctx,pl;
+function initCv(){cv=$('#cv');const d=devicePixelRatio||1;cv.width=cv.clientWidth*d;cv.height=300*d;ctx=cv.getContext('2d');ctx.scale(d,d);vw(J.lathe?'iso2':'iso');
+ let dr=null;cv.onpointerdown=e=>dr=[e.clientX,e.clientY];onpointerup=()=>dr=null;cv.onpointermove=e=>{if(!dr||(J.lathe&&!view.rev))return;view.rz+=(e.clientX-dr[0])/100;view.rx+=(e.clientY-dr[1])/100;dr=[e.clientX,e.clientY];draw()}}
+function rev(){view.rev=!view.rev;const b=$('#rv');if(b)b.textContent=view.rev?'Flat X–Z':'Revolve 3D';vw(view.rev?'iso2':'fit')}
+function vw(k){if(k=='top')view.rx=0,view.rz=0;if(k=='front')view.rx=-Math.PI/2,view.rz=0;if(k=='iso')view.rx=-0.9,view.rz=-0.6;if(k=='iso2')view.rx=-1.2,view.rz=0.9;
+ const st=J.stock;view.c=[(st[0]+st[3])/2,(st[1]+st[4])/2,(st[2]+st[5])/2];view.s=Math.min(cv.clientWidth,300)*0.75/Math.max(st[3]-st[0],st[4]-st[1],st[5]-st[2],2.5);
+ if(J.lathe){const b=J.lb,zs=b.L+b.z+1.2,rs=b.R+1.2;view.fs=Math.min((cv.clientWidth-20)/zs,280/rs);view.fz=b.z+0.6;view.fr=b.R+0.9}draw()}
+function P(p){if(J.lathe&&!view.rev)return[10+(view.fz-p[2])*view.fs*-1+ (cv.clientWidth-20) ,0].map((v,i)=>i?20+(view.fr-p[0])*view.fs:cv.clientWidth-10-(view.fz-p[2])*view.fs);
+ let x=p[0]-view.c[0],y=p[1]-view.c[1],z=p[2]-view.c[2];const cz=Math.cos(view.rz),sz=Math.sin(view.rz);[x,y]=[x*cz-y*sz,x*sz+y*cz];const cx=Math.cos(view.rx),sx=Math.sin(view.rx);[y,z]=[y*cx-z*sx,y*sx+z*cx];return[cv.clientWidth/2+x*view.s,150-y*view.s]}
+const rot=(p,a)=>[p[0]*Math.cos(a),p[0]*Math.sin(a),p[2]];
 function ln(a,b){const p=P(a),q=P(b);ctx.beginPath();ctx.moveTo(p[0],p[1]);ctx.lineTo(q[0],q[1]);ctx.stroke()}
-function draw(){ctx.clearRect(0,0,cv.width,cv.height);const s=J.stock,c=[];for(let i=0;i<8;i++)c.push([i&1?s[3]:s[0],i&2?s[4]:s[1],i&4?s[5]:s[2]]);
- ctx.strokeStyle='#666';ctx.lineWidth=1;ctx.setLineDash([]);[[0,1],[1,3],[3,2],[2,0],[4,5],[5,7],[7,6],[6,4],[0,4],[1,5],[2,6],[3,7]].forEach(([a,b])=>ln(c[a],c[b]));
- J.moves.slice(0,view.n).forEach(m=>{ctx.setLineDash(m.r?[4,4]:[]);ctx.strokeStyle=m.out?'#ff4d4d':m.r?'#ffd21f':'#14b8a6';ctx.lineWidth=m.r?1:2;ln(m.a,m.b)});
- if(view.n>0){const t=P(J.moves[view.n-1].b);ctx.fillStyle='#fff';ctx.beginPath();ctx.arc(t[0],t[1],3,0,7);ctx.fill()}}
-let pl;function play(){clearInterval(pl);view.n=0;pl=setInterval(()=>{if(view.n>=J.moves.length)return clearInterval(pl);view.n++;draw()},40)}
-function step(){clearInterval(pl);view.n=view.n>=J.moves.length?1:view.n+1;draw()}
+function poly(pts){ctx.beginPath();pts.forEach((p,i)=>{const q=P(p);i?ctx.lineTo(q[0],q[1]):ctx.moveTo(q[0],q[1])});ctx.closePath();ctx.stroke()}
+function draw(){ctx.clearRect(0,0,cv.width,cv.height);const s=J.stock,M=J.M||J.moves,n=Math.min(view.n,M.length),L=J.lathe,flat=L&&!view.rev,R3=p=>L?rot(p,0):p;
+ ctx.strokeStyle='#666';ctx.lineWidth=1;ctx.setLineDash([]);
+ if(flat){const b=J.lb;poly([[0,0,b.z],[b.R,0,b.z],[b.R,0,-b.L],[0,0,-b.L]]);ctx.setLineDash([8,4,2,4]);ln([0,0,b.z+0.5],[0,0,-b.L-0.3]);ctx.setLineDash([]);ctx.fillStyle='#555';ctx.font='11px sans-serif';const q=P([0,0,-b.L]);ctx.fillText('chuck',q[0]-34,q[1]-4)}
+ else if(L){const b=J.lb;[b.z,-b.L].forEach(z=>poly([...Array(24)].map((_,i)=>rot([b.R,0,z],i*Math.PI/12))));[0,1,2,3].forEach(i=>ln(rot([b.R,0,b.z],i*Math.PI/2),rot([b.R,0,-b.L],i*Math.PI/2)))}
+ else{const c=[];for(let i=0;i<8;i++)c.push([i&1?s[3]:s[0],i&2?s[4]:s[1],i&4?s[5]:s[2]]);[[0,1],[1,3],[3,2],[2,0],[4,5],[5,7],[7,6],[6,4],[0,4],[1,5],[2,6],[3,7]].forEach(([a,b])=>ln(c[a],c[b]))}
+ if(L&&view.rev){ctx.strokeStyle='rgba(20,184,166,.22)';M.slice(0,n).forEach(m=>{if(!m.r)for(let k=1;k<8;k++)ln(rot(m.a,k*Math.PI/4),rot(m.b,k*Math.PI/4))})}
+ M.slice(0,n).forEach(m=>{ctx.setLineDash(m.r?[4,4]:[]);ctx.strokeStyle=m.out?'#ff4d4d':m.r?'#ffd21f':'#14b8a6';ctx.lineWidth=m.r?1:2;ln(R3(m.a),R3(m.b))});
+ ctx.setLineDash([]);tool(n?M[n-1].b:(M[0]||{a:[0,0,1]}).a)}
+function tool(t){ctx.strokeStyle='#f2f2f2';ctx.lineWidth=1.3;
+ if(J.lathe){const r=t[0],z=t[2],o=(dr,dz)=>[r+dr,0,z+dz];let sh;
+  if(J.op=='ldrill'){const d=(J.p['Drill Ø']||{v:.25}).v/2;sh=[[o(0,0),o(d,.08),o(d,1.6),o(-d,1.6),o(-d,.08)]]}
+  else if(J.op=='lgroove'){const w=J.p['Insert W'].v;sh=[[o(0,0),o(0,w),o(.45,w),o(.45,0)],[o(.45,-.05),o(.45,w+.05),o(.8,w+.05),o(.8,-.05)]]}
+  else sh=[[o(0,0),o(.07,.13),o(.2,.1),o(.13,-.03)],[o(.12,.04),o(.12,.2),o(.75,.2),o(.75,.04)]];
+  sh.forEach(poly);if(view.rev){}return}
+ const d=((J.p.Cutter||J.p['Drill Ø']||{v:.25}).v)/2,ci=z=>[...Array(12)].map((_,i)=>[t[0]+d*Math.cos(i*Math.PI/6),t[1]+d*Math.sin(i*Math.PI/6),z]);
+ poly(ci(t[2]+(J.op=='face'?0:d*.6)));poly(ci(t[2]+1));poly(ci(t[2]+2.2));
+ for(let i=0;i<4;i++){const a=i*Math.PI/2,c=Math.cos(a)*d,s=Math.sin(a)*d;ln([t[0]+c,t[1]+s,t[2]+(J.op=='face'?0:d*.6)],[t[0]+c,t[1]+s,t[2]+2.2]);ln([t[0]+c,t[1]+s,t[2]+.15],[t[0]-s,t[1]+c,t[2]+.85])}
+ if(J.op!='face')ln([t[0]+d,t[1],t[2]+d*.6],t),ln([t[0]-d,t[1],t[2]+d*.6],t)}
+function hl(){const m=(J.M||[])[view.n-1];V.querySelectorAll('.ln.cur').forEach(e=>e.classList.remove('cur'));if(!m)return;const el=V.querySelector(`.ln[data-i="${m.l}"]`);if(el){el.classList.add('cur');const b=$('#ed');b.scrollTop=el.offsetTop-b.offsetTop-60}}
+function scrub(n){view.n=n;const s=$('#sc');if(s)s.value=n;draw();hl()}
+function play(){clearInterval(pl);let n=0;pl=setInterval(()=>{if(n>=J.M.length)return clearInterval(pl);scrub(++n)},Math.max(15,4000/J.M.length))}
+function step(){clearInterval(pl);scrub(view.n>=J.M.length?1:view.n+1)}
+
+function shiftZero(j,g){const v=k=>j.p[k]?j.p[k].v:0,o=j.lathe?[0,0,v('Z0')]:[v('Center X')||v('Start X')||0,v('Center Y')||v('Start Y')||0,v('Z0')];
+ g.moves.forEach(m=>{m.a=m.a.map((x,i)=>x+o[i]);m.b=m.b.map((x,i)=>x+o[i])});j.stock=j.stock.map((x,i)=>x+o[i%3]);if(j.lb)j.lb={...j.lb,z:j.lb.z+o[2],L:j.lb.L-o[2]}}
+
 if('serviceWorker'in navigator&&location.protocol!='file:')navigator.serviceWorker.register('sw.js');
 tab('machines');
-const H=decodeURIComponent(location.hash.slice(1));if(H=='presets')addM();else if(H=='recent'){tab('new');ex('6 hole bolt circle 3.0 dia 0.5 deep');saveJob()}else if(H){tab('new');ex(H);if(location.search=='?play'){view.n=Math.floor(J.moves.length*.6);draw()}}
+let H=decodeURIComponent(location.hash.slice(1));if(H.startsWith('L:')){S.cur=S.m.findIndex(m=>isLT(m.type));H=H.slice(2)}if(H=='presets')addM();else if(H=='recent'){tab('new');ex('6 hole bolt circle 3.0 dia 0.5 deep');saveJob()}else if(H){tab('new');ex(H);const q=new URLSearchParams(location.search);if(J&&J.M){if(q.has('rev'))rev();if(q.has('n'))scrub(Math.floor(J.M.length*+q.get('n')))}}
 </script></body></html>
